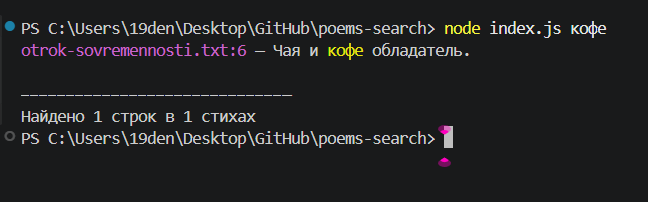
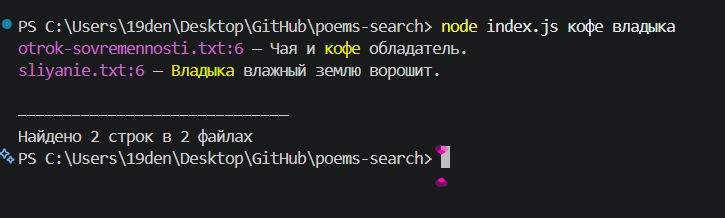
Универсальные сообщения: файлы вместо стихов

diff --git a/index.js b/index.js
@@ -4,6 +4,10 @@ const fs = require("fs");
 const searchWord = process.argv[2];
 const searchWord2 = process.argv[3];
 
+function plural(n, one, many) {
+  return n === 1 ? one : many;
+}
+
 if (!searchWord) {
   console.log("Укажи слово для поиска. Например: node index.js дорога дорога2");
   process.exit(1);
@@ -73,5 +77,12 @@ console.log("—".repeat(30));
 if (lineCount === 0) {
   console.log("Ничего не найдено");
 } else {
-  console.log("Найдено " + lineCount + " строк в " + fileCount + " стихах");
+  console.log(
+    "Найдено " +
+      lineCount +
+      " строк в " +
+      fileCount +
+      " " +
+      plural(fileCount, "файле", "файлах"),
+  );
 }

diff --git a/README.md b/README.md
@@ -1,4 +1,4 @@
-# 📖 Поиск по стихам
+# 📖 Поиск по файлам
 
 CLI-инструмент для поиска строк в `.txt`-файлах. Ищет по одному или двум словам, подсвечивает найденное, показывает статистику.
 
@@ -76,7 +76,7 @@ node index.js дорога луна
 node index.js
 ```
 
-## 📁 Свои стихи
+## 📁 Свои файлы
 
 По умолчанию скрипт ищет в папке `poems/`. Чтобы искать **в своих файлах**:
 
